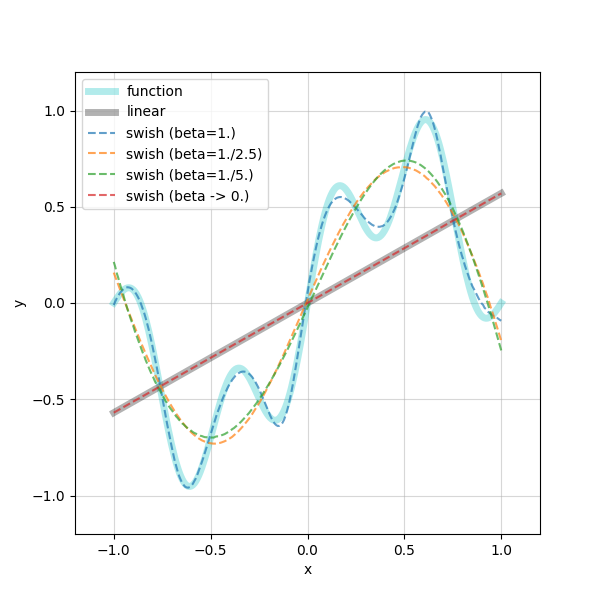
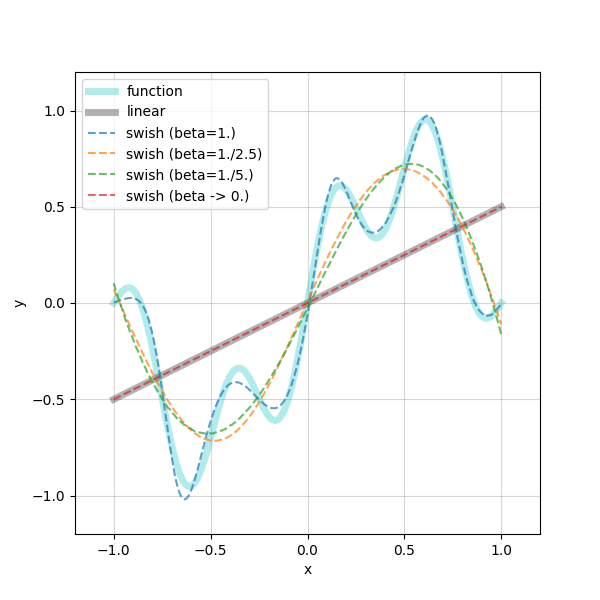
fix bug

Changed region(s): [[0.18, 0.18, 0.84, 0.84], [0.54, 0.3, 0.66, 0.39]]

diff --git a/main.py b/main.py
@@ -20,7 +20,7 @@ def main():
     xmin = -1.
     xmax =  1.
     nx   = 2 ** 8
-    nx_  = 2 ** 6
+    nx_  = 2 ** 4
 
     # params
     f_in   = 1
@@ -83,6 +83,8 @@ def main():
         # swish
         act = "swish"
         beta = 1.
+        lr = 5e-4 / beta
+        lr = 5e-4 / (beta ** depth)
         model_swish1 = DNN(
             x_train, y_train, 
             f_in, f_out, f_hid, depth, 
